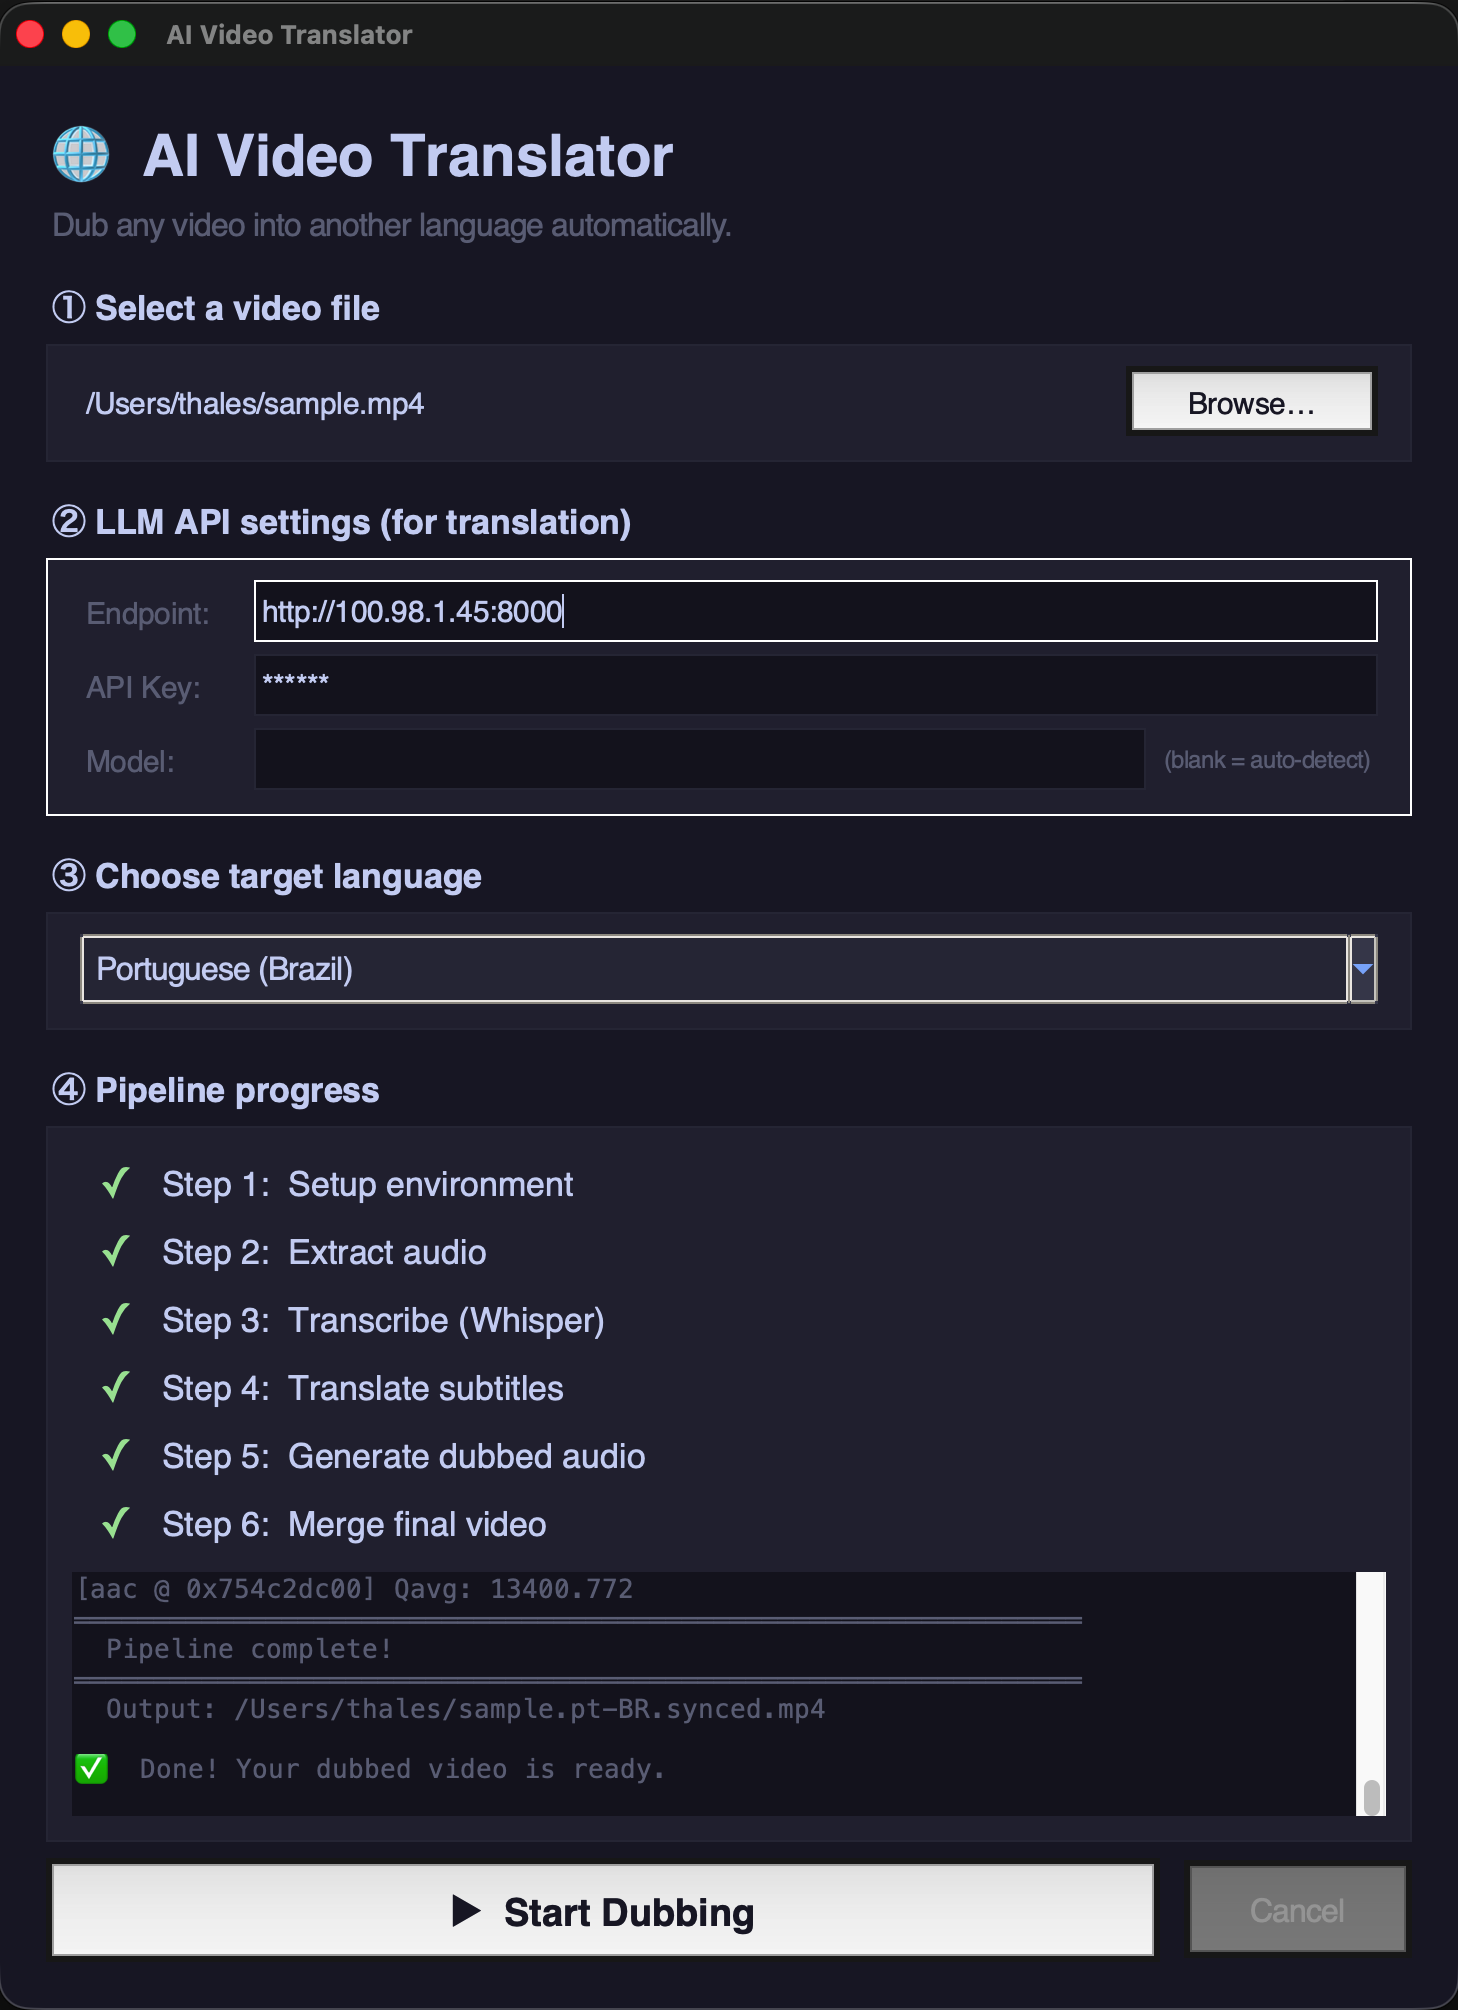
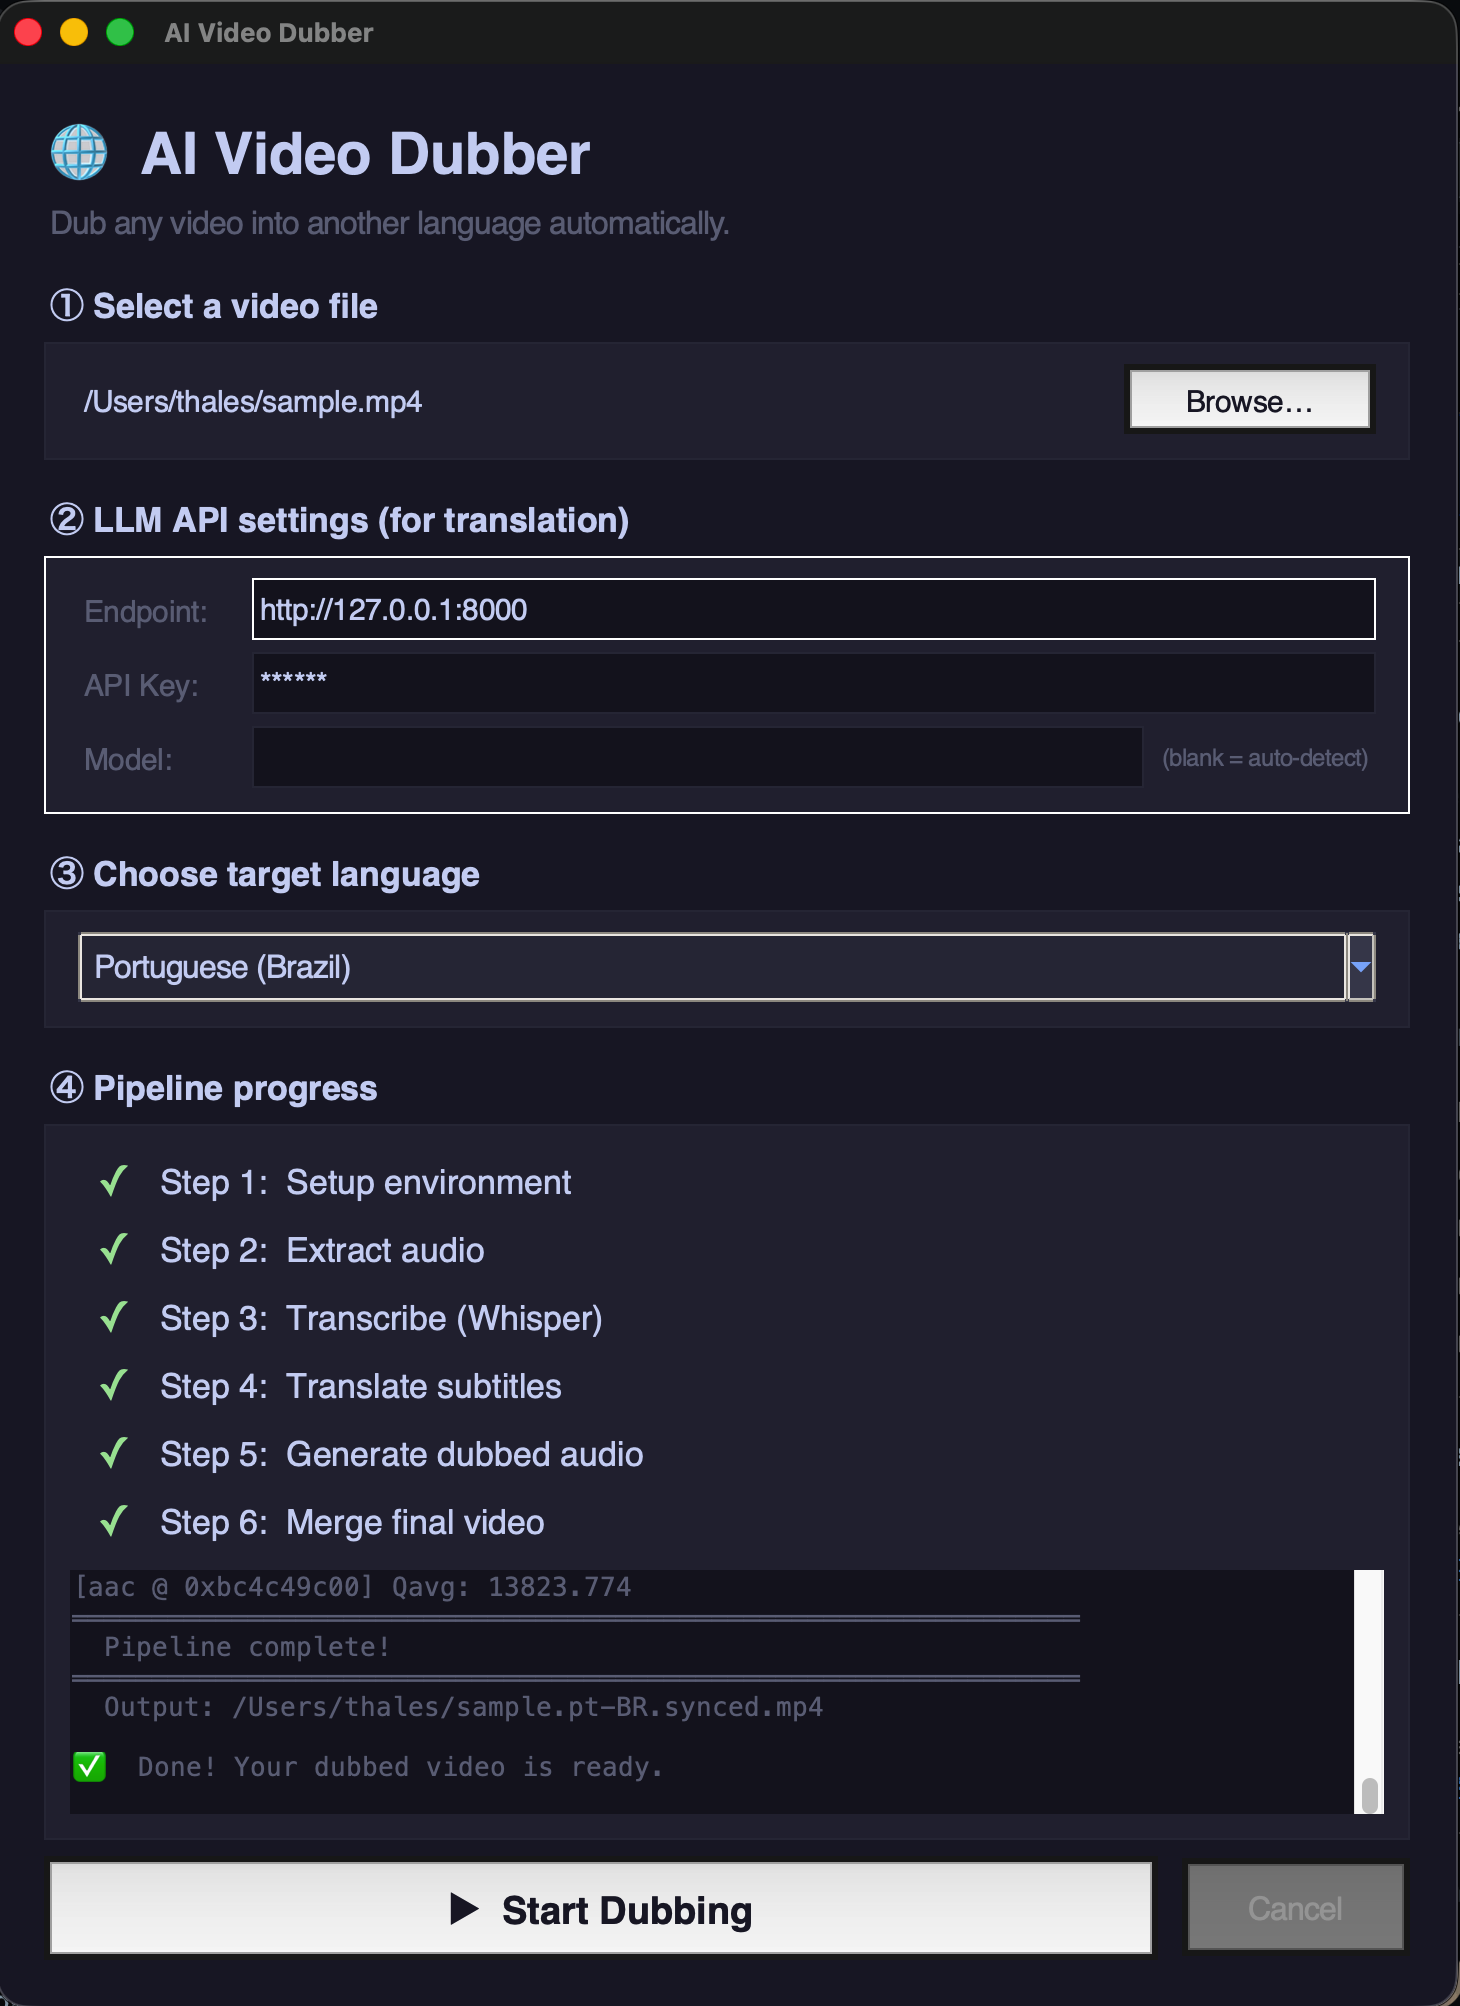
Rename project to AI Video Dubber
Rebrand the project from "AI Video Translator" to "AI Video Dubber". Updated README title and GUI text (module docstring, window title, and header label) to reflect the new name. Added .gitignore to ignore .DS_Store and updated the screenshot image.

diff --git a/gui.py b/gui.py
@@ -1,5 +1,5 @@
 #!/usr/bin/env python3
-"""AI Video Translator — Graphical User Interface.
+"""AI Video Dubber — Graphical User Interface.
 
 A friendly tkinter GUI that wraps the dub_video.sh pipeline so users
 don't need the command line.
@@ -96,7 +96,7 @@ class StepIndicator(tk.Frame):
 class App(tk.Tk):
     def __init__(self) -> None:
         super().__init__()
-        self.title("AI Video Translator")
+        self.title("AI Video Dubber")
         self.configure(bg=BG)
         self.minsize(640, 860)
         self.resizable(True, True)
@@ -115,7 +115,7 @@ class App(tk.Tk):
         header.pack(fill=tk.X, padx=24, pady=(24, 0))
         tk.Label(
             header,
-            text="🌐  AI Video Translator",
+            text="🌐  AI Video Dubber",
             font=(FONT_FAMILY, 22, "bold"),
             fg=FG,
             bg=BG,

diff --git a/README.md b/README.md
@@ -1,4 +1,4 @@
-# AI Video Translator
+# AI Video Dubber
 
 Automatically dub any video into another language using a fully local pipeline:
 
